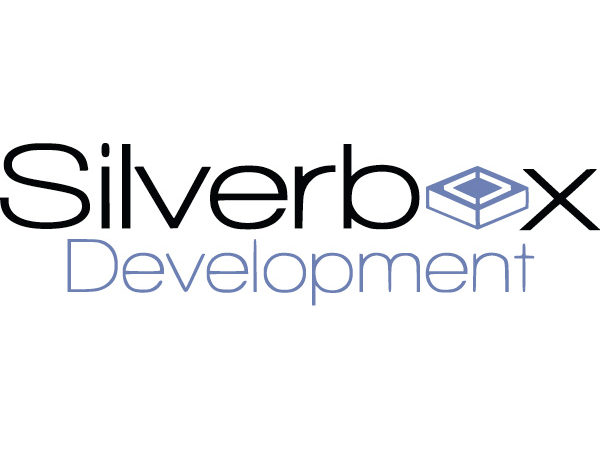
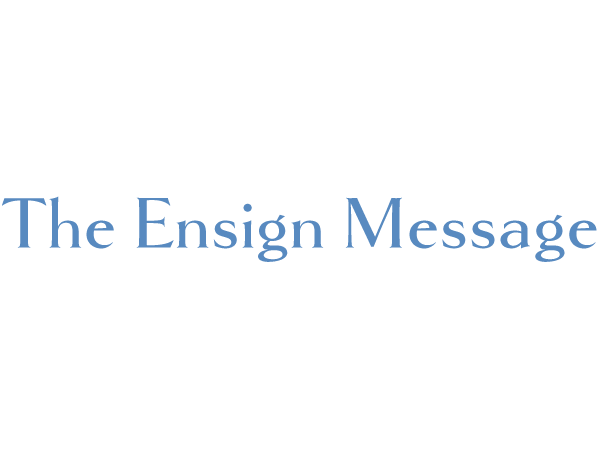
basic functions setup

Changed region(s): [[0.0, 0.3111, 1.0, 0.6844]]

diff --git a/wp-content/themes/ensign_custom/style.css b/wp-content/themes/ensign_custom/style.css
@@ -1,9 +1,9 @@
 /******************************************************************************
-Theme Name: Silverbox Skeleton
+Theme Name: Ensign Custom
 Theme URI: http://silverboxdev.com
-Description: Silverbox Development Framework
+Description: Silverbox Development Framework for ensignmessage.com
 Version: 1.0
-Author: Adam Silverman
+Author: Adam Silverman & Brian Dominey
 Author URI: http://silverboxdev.com
 License: GNU General Plug License version 3.0
 Tags: Wordpress Framework, Custom Framework, Wordpress Custom Theme
@@ -753,7 +753,7 @@ aside.sidebar {
     aside.sidebar {
       padding-left: 0; } }
   aside.sidebar a {
-    color: #6699aa;
+    color: blue;
     text-decoration: none; }
     aside.sidebar a:hover {
       text-decoration: underline; }

diff --git a/wp-content/themes/ensign_custom/style.scss b/wp-content/themes/ensign_custom/style.scss
@@ -1,9 +1,9 @@
 /******************************************************************************
-Theme Name: Silverbox Skeleton
+Theme Name: Ensign Custom
 Theme URI: http://silverboxdev.com
-Description: Silverbox Development Framework
+Description: Silverbox Development Framework for ensignmessage.com
 Version: 1.0
-Author: Adam Silverman
+Author: Adam Silverman & Brian Dominey
 Author URI: http://silverboxdev.com
 License: GNU General Plug License version 3.0
 Tags: Wordpress Framework, Custom Framework, Wordpress Custom Theme

diff --git a/wp-content/themes/ensign_custom/css/_posts.scss b/wp-content/themes/ensign_custom/css/_posts.scss
@@ -51,7 +51,7 @@ aside.sidebar {
 	}
 
 	a {
-		color: $blue;
+		color: blue;
 		text-decoration: none;
 		
 		&:hover {

diff --git a/wp-content/themes/ensign_custom/functions.php b/wp-content/themes/ensign_custom/functions.php
@@ -6,6 +6,8 @@
 define('THEMEROOT', get_stylesheet_directory_uri());
 define('SCRIPTS', get_stylesheet_directory_uri()) . "/js";
 define('IMAGES', THEMEROOT . '/images');
+define('FUNC_PATH', $_SERVER['DOCUMENT_ROOT'] . '/wp-content/themes/ensign_custom/functions');
+
 
 /***********************************************************************************/
 /* Menus */
@@ -172,8 +174,8 @@ function change_my_wp_login_image() {
 echo "
 <style>
 body.login #login h1 a {
-background: url('http://silverboxdev.com/images/logo_silverbox-wp.png') 0 0 no-repeat transparent;
-height:88px;
+background: url('http://briandominey.com/images/bdd-wp.png') 0 0 no-repeat transparent;
+height:76px;
 width:325px;
 position: relative;
 left: 0px;
@@ -198,7 +200,7 @@ add_filter( 'login_headertitle', 'my_login_logo_url_title' );
 /* Included Functions */
 /***********************************************************************************/
 
-require_once($_SERVER['DOCUMENT_ROOT'] . "/wp-content/themes/silverskeleton/functions/shortcodes.php");
-require_once($_SERVER['DOCUMENT_ROOT'] . "/wp-content/themes/silverskeleton/functions/metaboxes.php");
+require_once(FUNC_PATH . "/shortcodes.php");
+require_once(FUNC_PATH . "/metaboxes.php");
 
 ?>

diff --git a/wp-content/themes/ensign_custom/header.php b/wp-content/themes/ensign_custom/header.php
@@ -33,7 +33,7 @@
 			<header class="masthead">
 				
 				<div class="logo">
-					<a href="/">Main Logo Goes Here</a>
+					<a href="/">Ensign Message</a>
 				</div>
 				
 				<!-- Main Navigation -->
